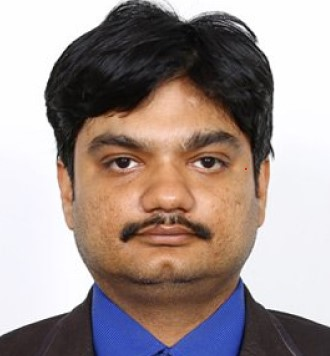
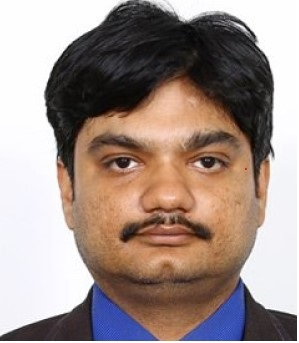
image resizing for shuva sir

diff --git a/HTML/teams.html b/HTML/teams.html
@@ -116,7 +116,7 @@
                         </figure>
                         
                     </div>
-                    <div class="column">
+                    <div class="column2">
         
                         <div class="lgx-single-speaker">
                             <figure>

diff --git a/Style/teams.css b/Style/teams.css
@@ -738,8 +738,14 @@ margin-top:-100%;
       margin-top: -428px;
       margin-left: 490px;
     }
+    
     .column1{
       margin-top: 10%;
+    }
+    .column2{
+      position:absolute;
+      margin-top: -428px;
+      margin-left: 500px;
     }
     .column3{
       position:absolute;
